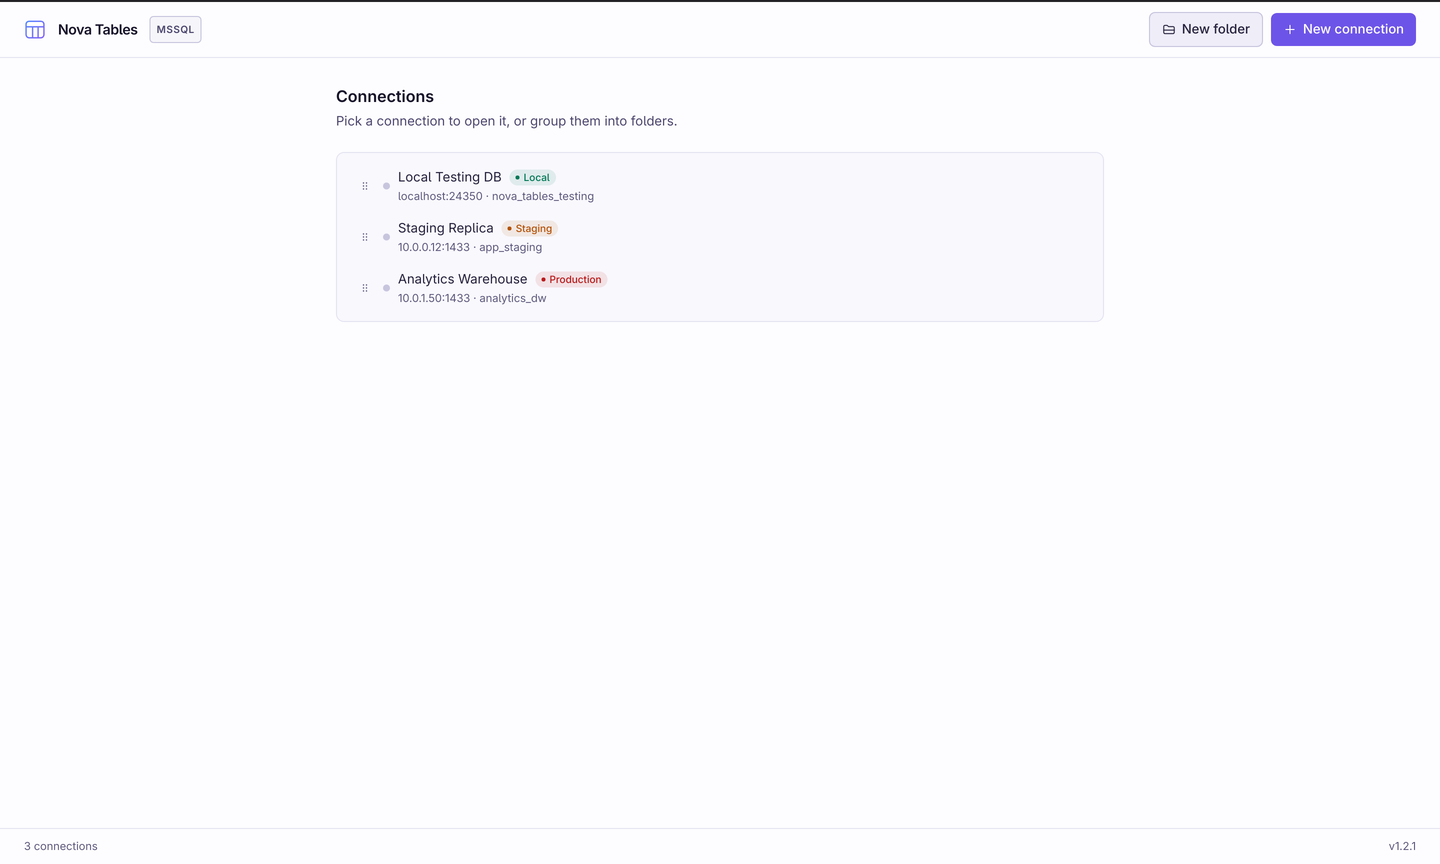
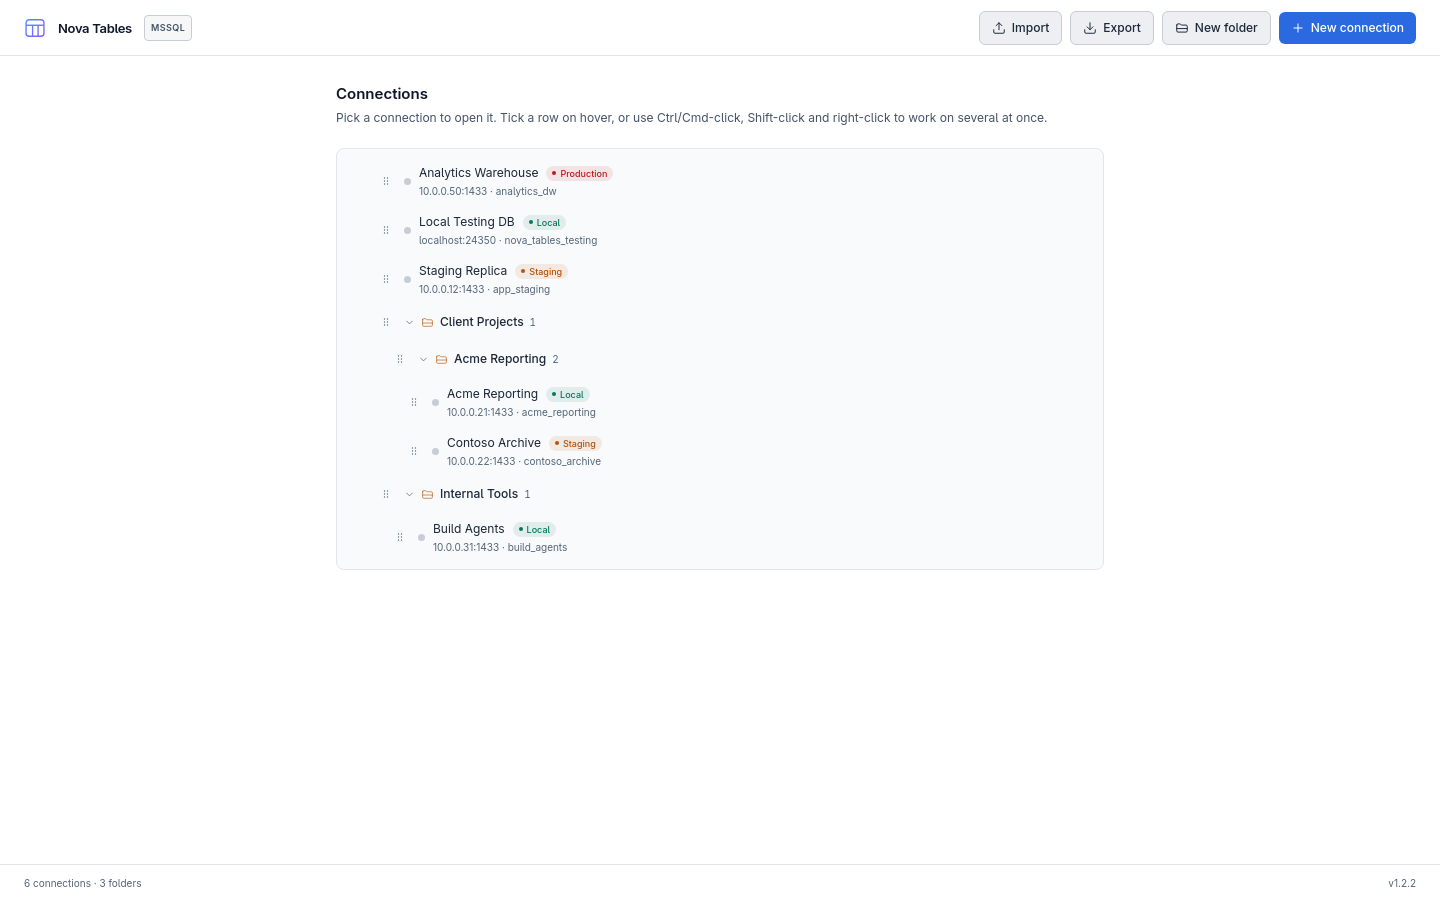
docs: update README with connection management screenshots and documentation

diff --git a/README.md b/README.md
@@ -10,7 +10,7 @@ Nova Tables is made for people who work with Microsoft SQL Server every day and 
 place to look something up, write a query and read the answer. It stays deliberately small and
 focused on doing that well.
 
-> **Note:** Nova Tables works with Microsoft SQL Server only. It is a local desktop application —
+> **Note:** Nova Tables works with Microsoft SQL Server only. It is a local desktop application -
 > nothing is uploaded anywhere, and neither your data nor your credentials ever leave your computer.
 
 ## Screenshots
@@ -18,6 +18,18 @@ focused on doing that well.
 ### Your connections, in one place
 
 ![Connections](./public/demo/connections.png)
+
+### Select several connections for bulk actions
+
+![Connection selection](./public/demo/connections-selection.png)
+
+### Export connections and their folders as one encrypted file
+
+![Export connections](./public/demo/export-connections.png)
+
+### Import the file on another machine with the same password
+
+![Import connections](./public/demo/import-connections.png)
 
 ### A new connection, tested before it is saved
 
@@ -110,4 +122,4 @@ intact. Let's spread the joy of coding together!
 ---
 
 **Happy coding and collaborating!**
-— Nova Ardiansyah
+- Nova Ardiansyah
